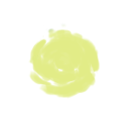
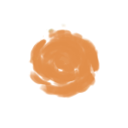
Fixed mana orb missing

Changed region(s): [[0.2188, 0.2188, 0.7812, 0.7812]]

diff --git a/src/main/java/basicmod/characters/Engineer.java b/src/main/java/basicmod/characters/Engineer.java
@@ -44,8 +44,6 @@ public class Engineer extends CustomPlayer {
             BasicMod.imagePath("char/engineer/orb/layer3d.png"),
             BasicMod.imagePath("char/engineer/orb/layer4d.png"),
             BasicMod.imagePath("char/engineer/orb/layer5d.png"),
-            BasicMod.imagePath("char/engineer/orb/layer6d.png"),
-            BasicMod.imagePath("char/engineer/orb/test.png")
     };
 
     private static final String ORB_VFX = BasicMod.imagePath("char/engineer/orb/vfx.png");
@@ -54,7 +52,7 @@ public class Engineer extends CustomPlayer {
             -40f,  40f,  -25f,  25f,  -15f,  0f,
 
             // Dark
-            -40f,  40f,  -25f,  25f,  -15f,  15f,
+            -40f,  40f,  -25f,  25f,
 
             // Base/frame should be static
             0f
